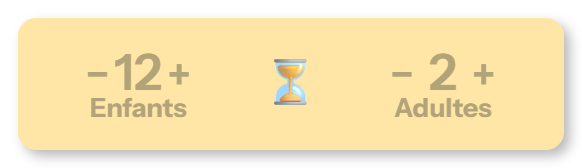
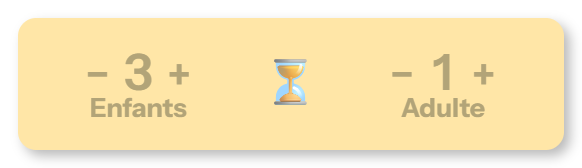
style(onboarding): capture de la barre de gauche a 4 services, a la hauteur du texte ; badge a jauge 3 enfants / 1 adulte
- services-sidebar.png refaite (scripts/capture-onboarding-sidebar.mjs, x2, carte arrondie) ; hauteur de l image = hauteur mesuree du texte a sa gauche (ServicesLayout, ResizeObserver)
- reservation-badge-gauge.png : compteurs ramenes a 3 / 1 par le script avant capture

Changed region(s): [[0.6804, 0.5655, 0.866, 0.7143], [0.1856, 0.2976, 0.2784, 0.5357], [0.7113, 0.2976, 0.8041, 0.5357]]

diff --git a/src/components/onboarding-modal.tsx b/src/components/onboarding-modal.tsx
@@ -1,6 +1,6 @@
 "use client";
 
-import { type ReactNode, useEffect, useState } from "react";
+import { type ReactNode, useEffect, useLayoutEffect, useRef, useState } from "react";
 import { BookingStateSwatch, ModalOverlay, WaitingListGlyph } from "@/components/agenda-shared";
 import { markOnboardedAction } from "./onboarding-actions";
 
@@ -13,32 +13,63 @@ type Step = { title: ReactNode; body: ReactNode; image?: ReactNode };
 type ServiceLite = { label: string };
 
 /* ── Illustrations ────────────────────────────────────────────────────────────────────
-   Le menu de gauche est une vraie capture (public/onboarding/services-sidebar.png) : la barre
+   Le panneau de gauche est une vraie capture (public/onboarding/services-sidebar.png, produite
+   par scripts/capture-onboarding-sidebar.mjs) : la barre
    est toujours sombre (thèmes clair et sombre), donc cohérente partout. Les autres visuels
    sont reproduits en HTML/CSS (suivent le thème). */
 
-/** Capture (recadrée) de la barre de gauche listant les services. */
-function SidebarShot() {
+/** Capture (recadrée) de la barre de gauche listant les services ; `height` = hauteur du
+ *  texte à sa gauche (cf. ServicesLayout). */
+function SidebarShot({ height }: { height: number }) {
   return (
     // Capture statique d'illustration (pas next/image : taille fixe, pas d'optimisation utile).
     <img
       src="/onboarding/services-sidebar.png"
       alt="Le panneau de gauche listant les services disponibles"
-      width={319}
-      height={300}
+      width={494}
+      height={556}
       // La capture est déjà une carte aux coins arrondis (fond transparent autour) :
       // pas de bordure/borderRadius ajoutés, qui déborderaient des coins.
-      // Hauteur FIXE (largeur au ratio) : posée À CÔTÉ du texte de l'étape services,
-      // elle tient dans les 150px du corps — la page ne dépasse plus les autres
-      // (retour Dom 2026-08-30 : se caler sur les pages les MOINS hautes).
+      // Hauteur = celle du texte à sa gauche (largeur au ratio), posée À CÔTÉ du texte de
+      // l'étape services (Dom 2026-09-06 : « toute la hauteur du texte » ; 2026-08-30 :
+      // à côté et non dessous, pour rester dans la hauteur commune des pages).
       style={{
         display: "block",
-        height: 142,
+        height,
         width: "auto",
         maxWidth: "100%",
         flexShrink: 0,
       }}
     />
+  );
+}
+
+/**
+ * Étape services, desktop : texte à gauche, capture à droite dont la HAUTEUR suit celle
+ * du texte — mesurée (ResizeObserver) car le CSS seul ne déduit pas la largeur d'une image
+ * d'une hauteur « stretch » dans une rangée flex. Mobile : le texte seul (la maquette du
+ * bandeau ☰ est dans le slot image de l'étape).
+ */
+function ServicesLayout({ isMobile, children }: { isMobile: boolean; children: ReactNode }) {
+  const ref = useRef<HTMLDivElement>(null);
+  const [height, setHeight] = useState(142);
+  useLayoutEffect(() => {
+    const el = ref.current;
+    if (!el) return;
+    const update = () => setHeight(Math.round(el.getBoundingClientRect().height));
+    update();
+    const ro = new ResizeObserver(update);
+    ro.observe(el);
+    return () => ro.disconnect();
+  }, []);
+  if (isMobile) return <>{children}</>;
+  return (
+    <div style={{ display: "flex", gap: "1.25rem", alignItems: "flex-start" }}>
+      <div ref={ref} style={{ flex: 1, minWidth: 0 }}>
+        {children}
+      </div>
+      <SidebarShot height={height} />
+    </div>
   );
 }
 
@@ -432,8 +463,8 @@ function usagerSteps(services: ServiceLite[], hasGauge: boolean, isMobile: boole
       // (retour Dom 2026-08-30 : se caler sur les pages les MOINS hautes). MOBILE :
       // colonne, maquette du bandeau sandwich sous le texte (slot image).
       body: (
-        <div style={isMobile ? undefined : { display: "flex", gap: "1.25rem" }}>
-          <div style={isMobile ? undefined : { flex: 1, minWidth: 0 }}>
+        <ServicesLayout isMobile={isMobile}>
+          <div>
             <p style={P}>
               Vous pouvez réserver des activités auprès {names.length > 1 ? "de " : "du "}
               <strong>{names.length > 1 ? "plusieurs services" : "service"}</strong>
@@ -468,8 +499,7 @@ function usagerSteps(services: ServiceLite[], hasGauge: boolean, isMobile: boole
               )}
             </p>
           </div>
-          {!isMobile && <SidebarShot />}
-        </div>
+        </ServicesLayout>
       ),
       image: isMobile ? <BurgerMock label={names[0] ?? "Médiathèque"} /> : undefined,
     },
